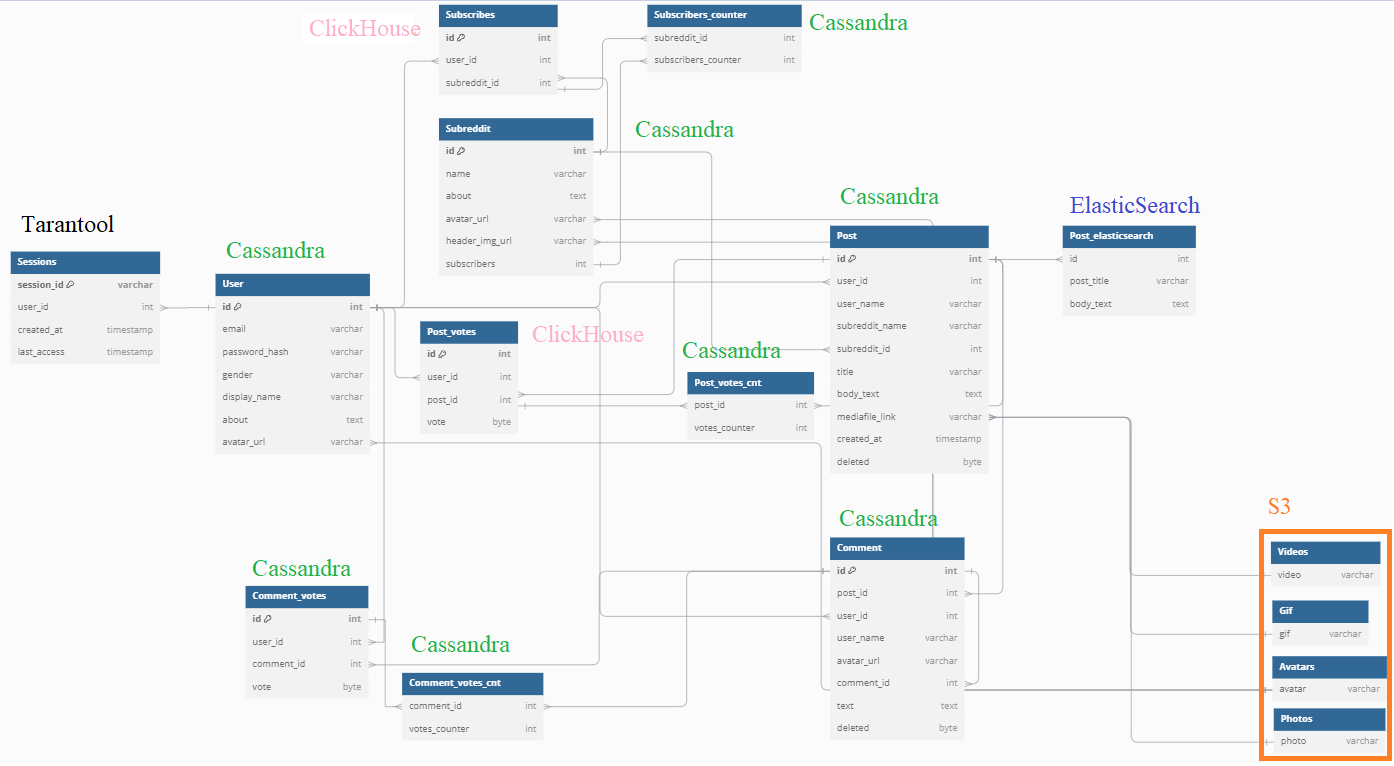
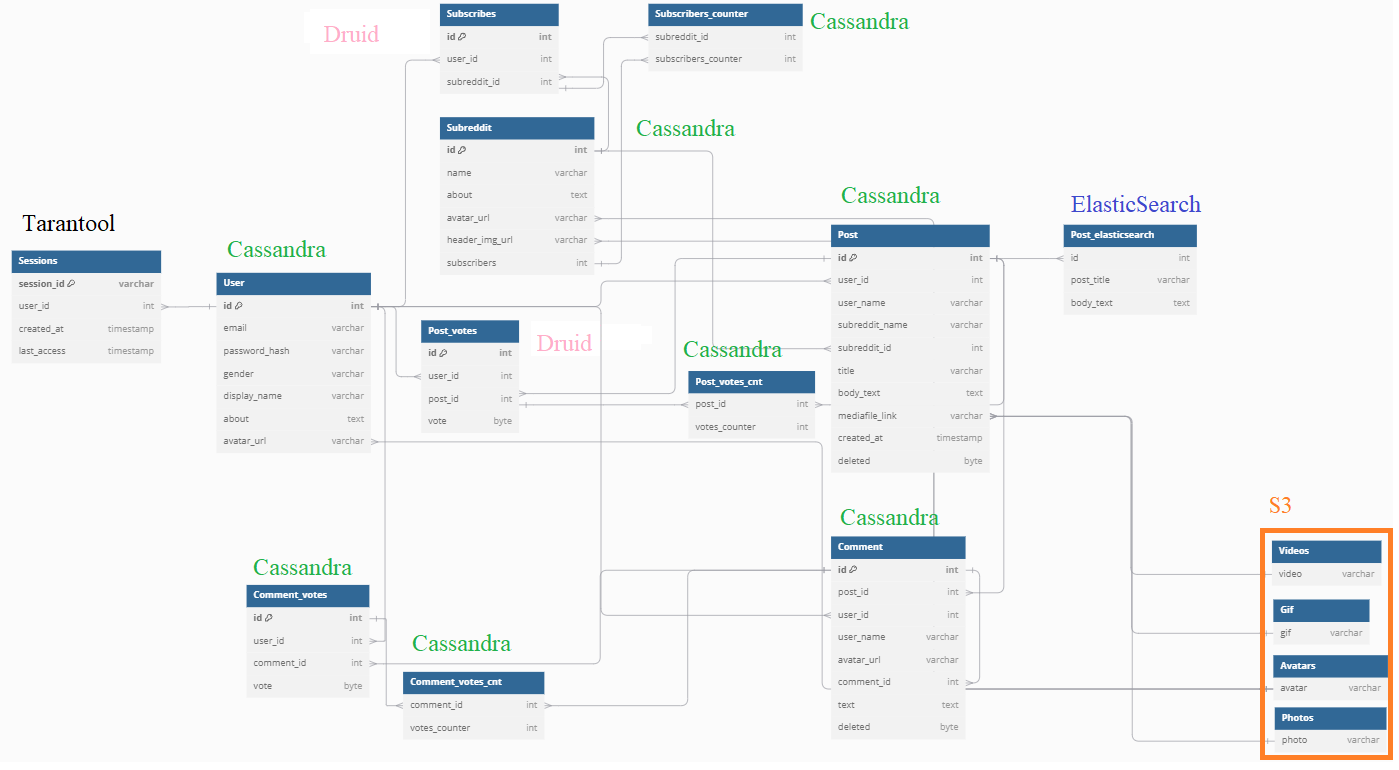
prepare

diff --git a/README.md b/README.md
@@ -10,6 +10,7 @@
 * ### [6. Физическая схема БД.](#6)
 * ### [7. Алгоритмы.](#7)
 * ### [8. Технологии](#8)
+* ### [9. Обеспечение надёжности](#9)
 
 ### 1. Тема и целевая аудитория <a name="1"></a>
 
@@ -301,8 +302,7 @@ MVP функционал:
 
 Хранение всей статической информации реализовано при помощи S3 хранилища. Хранение сессий реализовано при помощи tarantool, поскольку является in-memory БД, позволяет обрабатывать запросы с высокой скоростью записи и чтения и имеет возможность восстановиться в отличие от Redis. Требует использования большого количества инстансов.
 Основные сущности (Пользователи, Посты, Комментарии, Сабреддиты) хранятся при помощи Cassandra, поскольку она спроектирована под высокую нагрузку на чтение, имеет соотвествующие встроенные механизмы, такие как шардинг.
-Основной нагрузкой для оценок в свою очередь является запись. Поэтому в данном случае важно в первую очередь шардирование. Для хранения данных таблиц будет использована Cassandra, поскольку она уже имеет встроенный механизм горизонтального масштабирования.
-Для хранения Subscribes и Post_votes используется ClickHouse для последующей аналитики для составления рекомендаций.
+Для хранения Subscribes и Post_votes используется Druid для последующей аналитики для составления рекомендаций.
 
 Из-за болшого размера таблицы комментариев (~18 ТБ), храннеие её на одном диске невозможно, поскольку используются диски до 18 ТБ, поэтому проводится шардирование по post_id, т.к. комментарии вычитываются пачкой для отдельного поста. 
 
@@ -312,11 +312,11 @@ MVP функционал:
 | Sessions          | User_id               | -                             | Tarantool             | VShard(buckets)   | VShard(replicaset)    |
 | User              | id                    | -                             | Cassandra             | -                 | Master - 2 Slaves     |
 | Subreddit         | id                    | Добавление счётчика subscribers | Cassandra           | -                 | Master - 2 Slaves     |
-| Subscribes        | user_id, subreddit_id | -                             | ClickHouse            | -                 | -                     |
+| Subscribes        | user_id, subreddit_id | -                             | Druid            | -                 | -                     |
 | Post              | user_id, subreddit_id | Дублирование информации об авторе и сабреддите, запрос количества голосов отдельным запросом | Cassandra | - | Master - 2 Slaves |
 | Comment           | post_id               | Дублирование информации о пользователе, внешний счётчик голосования | Cassandra   | post_id, так как таблица слишком большая   | Master - 2 Slaves |
-| Comment_votes     | comment_id            | -                             | Cassandra             | comment_id (высокая запись) | -           |
-| Post_votes        | post_id               | -                             | ClickHouse            | post_id           | -                     |
+| Comment_votes     | comment_id            | -                             | Cassandra             | post_id (высокая запись) | -           |
+| Post_votes        | post_id               | -                             | Druid                 | post_id           | -                     |
 | Post_votes_cnt    | post_id               | -                             | Cassandra             | - (постепенное обновление) | Master - 2 Slaves |
 | Comment_votes_cnt | comment_id            | -                             | Cassandra             | - (постепенное обновление) | Master - 2 Slaves |
 | Subscribers_counter| subreddit_id         | -                             | Cassandra             | - (постепенное обновление) | -            |
@@ -331,16 +331,15 @@ Tarantool: VShard
 
 ### 7. Алгоритмы. <a name="7"></a>
 
-Алгоритм ранжирования постов.
-Применяется информация о времени, прошедшем с создания поста, количества комментариев и голосов. Чем старше пост, тем ниже он ранжируется. Используется для выделения "горячих" постов.
-
 Алгоритм рекомендаций.
-Упрощённый алгоритм, основывающийся на подписках пользователя и лайках пользователя. Пользователю будут предлагаться посты от пользователей и subreddit'ов, чьи посты он лайкал. Также применение
-elasticSearch для поиска похожих постов.
+Рекомендации будут формироваться асинхронно для каждого пользователя. Рекомендации формируются при помощи статистики пользователя, то есть тех постов, которые он лайкнул и сабреддитов, на которых происходит активное увеличение аудитории. Для рекомендации планируется использовать NoSQL DB, например, Cassandra. В подборе рекомендованных постов будет задействован ElasticSearch. С его помощью проводится поиск постов, схожих с лайкнутыми пользователем. Также в выборку попадают посты от того же пользователя/сабреддита, посты которого лайкал пользователь, и посты из набирающих популярность сабреддитов, схожими с интересами пользователя. Все подобранные рекомендации записываются в базу и потом запрашиваются при запросе рекомендаций.
 
-Построения дерева комментариев.
-Используется при чтении комментариев под постом.
-
+Модерация контента.
+Для модерации наиболее эффективным для обработки большого количества входных данных являются модели машинного обучения, поскольку добавление черных или белых листов избыточных подход, который требовал бы хранение всех запрещенных или разрешенных слов всех языков, это требовало бы хранения и постоянного чтения, а также обновления. Из-за данных минусов модерация большого количества текстового контента невозможно. Конечно, можно добавить некий первичный черный список слов, который производил бы первоначальную модерацию, но эти ограничения обычно обходятся символами. В случае обработки фотографий потребуется также некое сравнение загружаемой фотографии с фотографиями запрещённых объектов, что сложнее алгоритмически и также содержит минусы модерации текста черными и белыми списками.
+Поэтому логичным решением является использование машинного обучения, поскольку распознавание (идентификация, классификация) являются стандартными операциями для данных моделей.
+В случае, если будет принято решение разрабатывать модель самостоятельно, то можно воспользоваться python и фреймоврком PyTorch, загрузить запрещённые данные, обучить модель. Модель сама сформирует запрещённые признаки, после чего её можно использовать для модерации.
+Также можно обратиться к компаниям, которые специализируются на подобных заказах, например, data-light. Она предлагает решение задач модерации при помощи ИИ.
+Также в любом случае будет контент, который прошёл модерацию нейронной сетью. В этом случае обрабатываются жалобы пользователей, контент проверяется человеком. В случае, если контент дейстивтельно запрещён, он будет удалён модератором, а самими данными можно дообучать модель. Но в этом случае надо избежать переобучения модели, иначе возможна блокировка допустимого контента. В подобном случае можно подать апелляцию на проверку контента человеком.    
 
 ### 8. Технологии. <a name="8"></a>
 
@@ -350,14 +349,20 @@ elasticSearch для поиска похожих постов.
 | TypeScript    | Frontend              | Распространенность, типизация (повышение надёжности)  |
 | React         | Frontend              | Распространенность    |
 | Cassandra     | Хранение данных (пользователи, посты, комментарии, сабреддиты и связанные с ними таблицы) | Встроенный шардинг, поддержка индексов, поддерживает высокий RPS  |
-| ElasticSearch | Поиск постов          | Распространенное решение для организации поиска   |
+| ElasticSearch | Поиск постов          | Распространенное решение для организации поиска [1]  |
 | Tarantool     | Хранение сессий       | In-memory БД, поддержка выского RPS, восстановление после перезагрузки    |
 | Amazon S3     | Хранение медифайлов   | Готовое S3 хранилище, обеспечивающее хранение больших объемов данных. Отказоустойчивость и целостность данных обеспечивается Amazon   |
 | Ngnix         | Балансировка          | Обеспечение отказоустойчивости при помощи дублирования, балансировка L7, терминация SSL   |
 | kubernetes    | Оркестрация           | Распространенность |
 | Docker        | Контейнеризация       | Распространенность, работа в связке с kubernetes  |
-| Grafana-Prometheus    | Мониторинг    | Распространенность, наличие готовых dashboards, индексация по метаданным логов, сжатие логов с возможностью хранить в S3, интеграция с kubernetes |
+| Grafana-Prometheus    | Мониторинг    | Распространенность, наличие готовых dashboards    |
+| Grafana Loki  | Логирование           | Часть системы Grafana. Loki индексирует не сами логи, а их метаданные, а именно метки. При этом сами логи сжимаются и хранятся в различных объектных хранилищах или в файловой системе.[3] | 
+| Druid         | Статистика            | Столбцовая СУБД, возможность быстрой записи пачками, сжатие данных, поддержка работы с жёсткими дисками, "API разработчика", разделение данных по временной оси (сегменты) [2]|
 
 
 Список литературы:
 1. [Сравнение elasticSearch с конкурентами](https://habr.com/ru/articles/581394/)
+2. [ClickHouse, Druid, Pinot](https://habr.com/ru/companies/oleg-bunin/articles/351308/)
+3. [Logging with Grafana](https://noobdevblog.hashnode.dev/logging-with-grafana)
+
+### 9. Обеспечение надёжности. <a name="9"></a>
